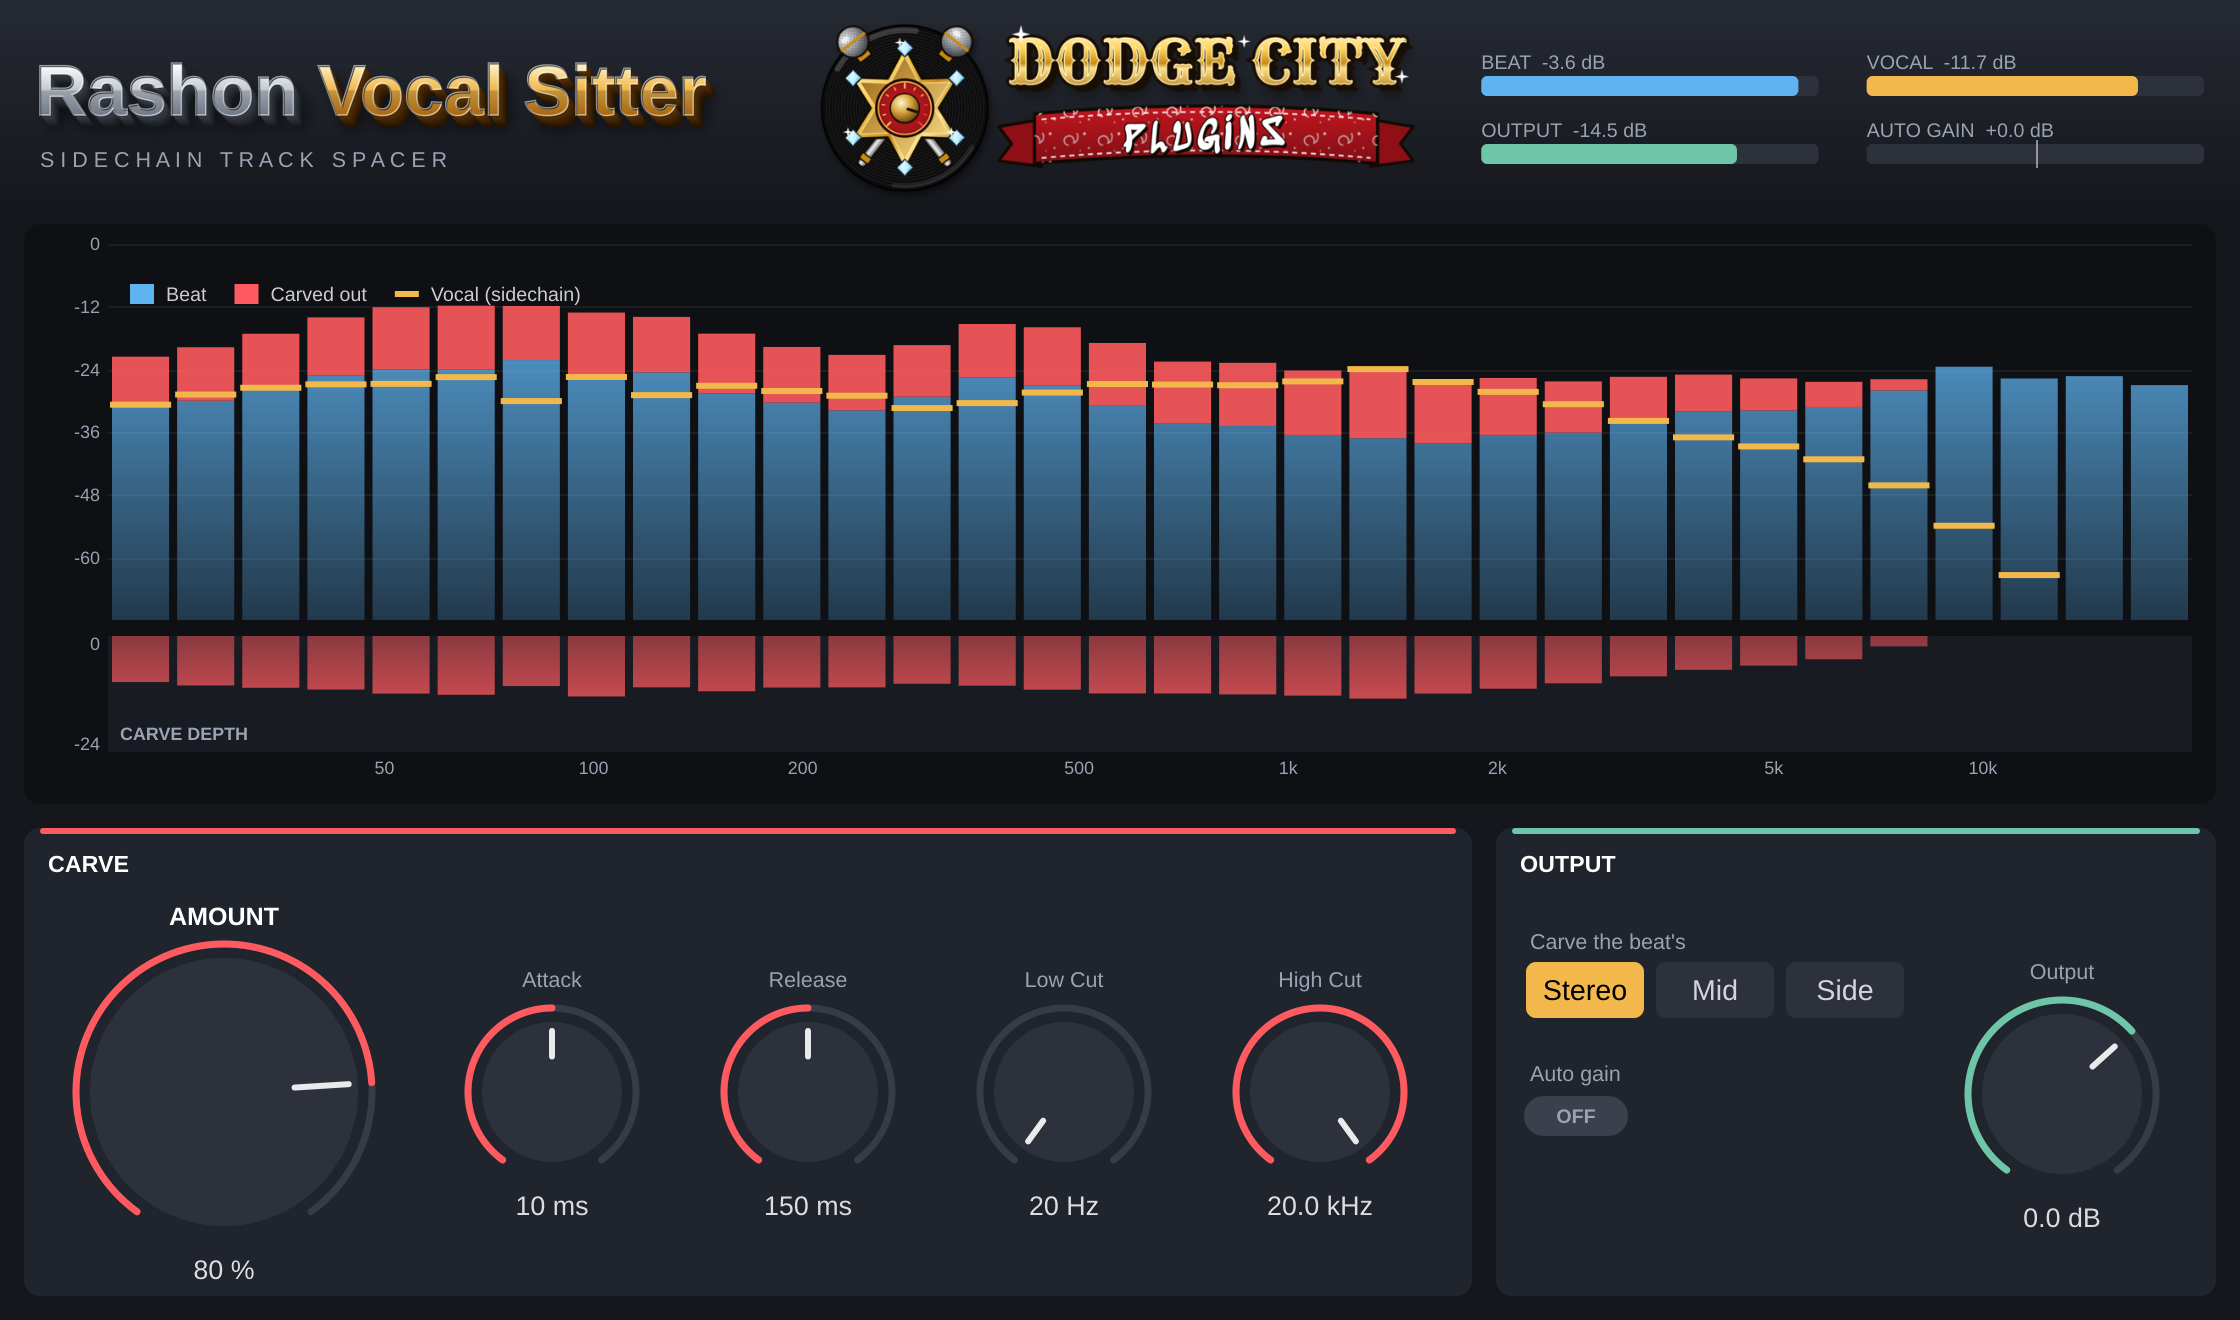
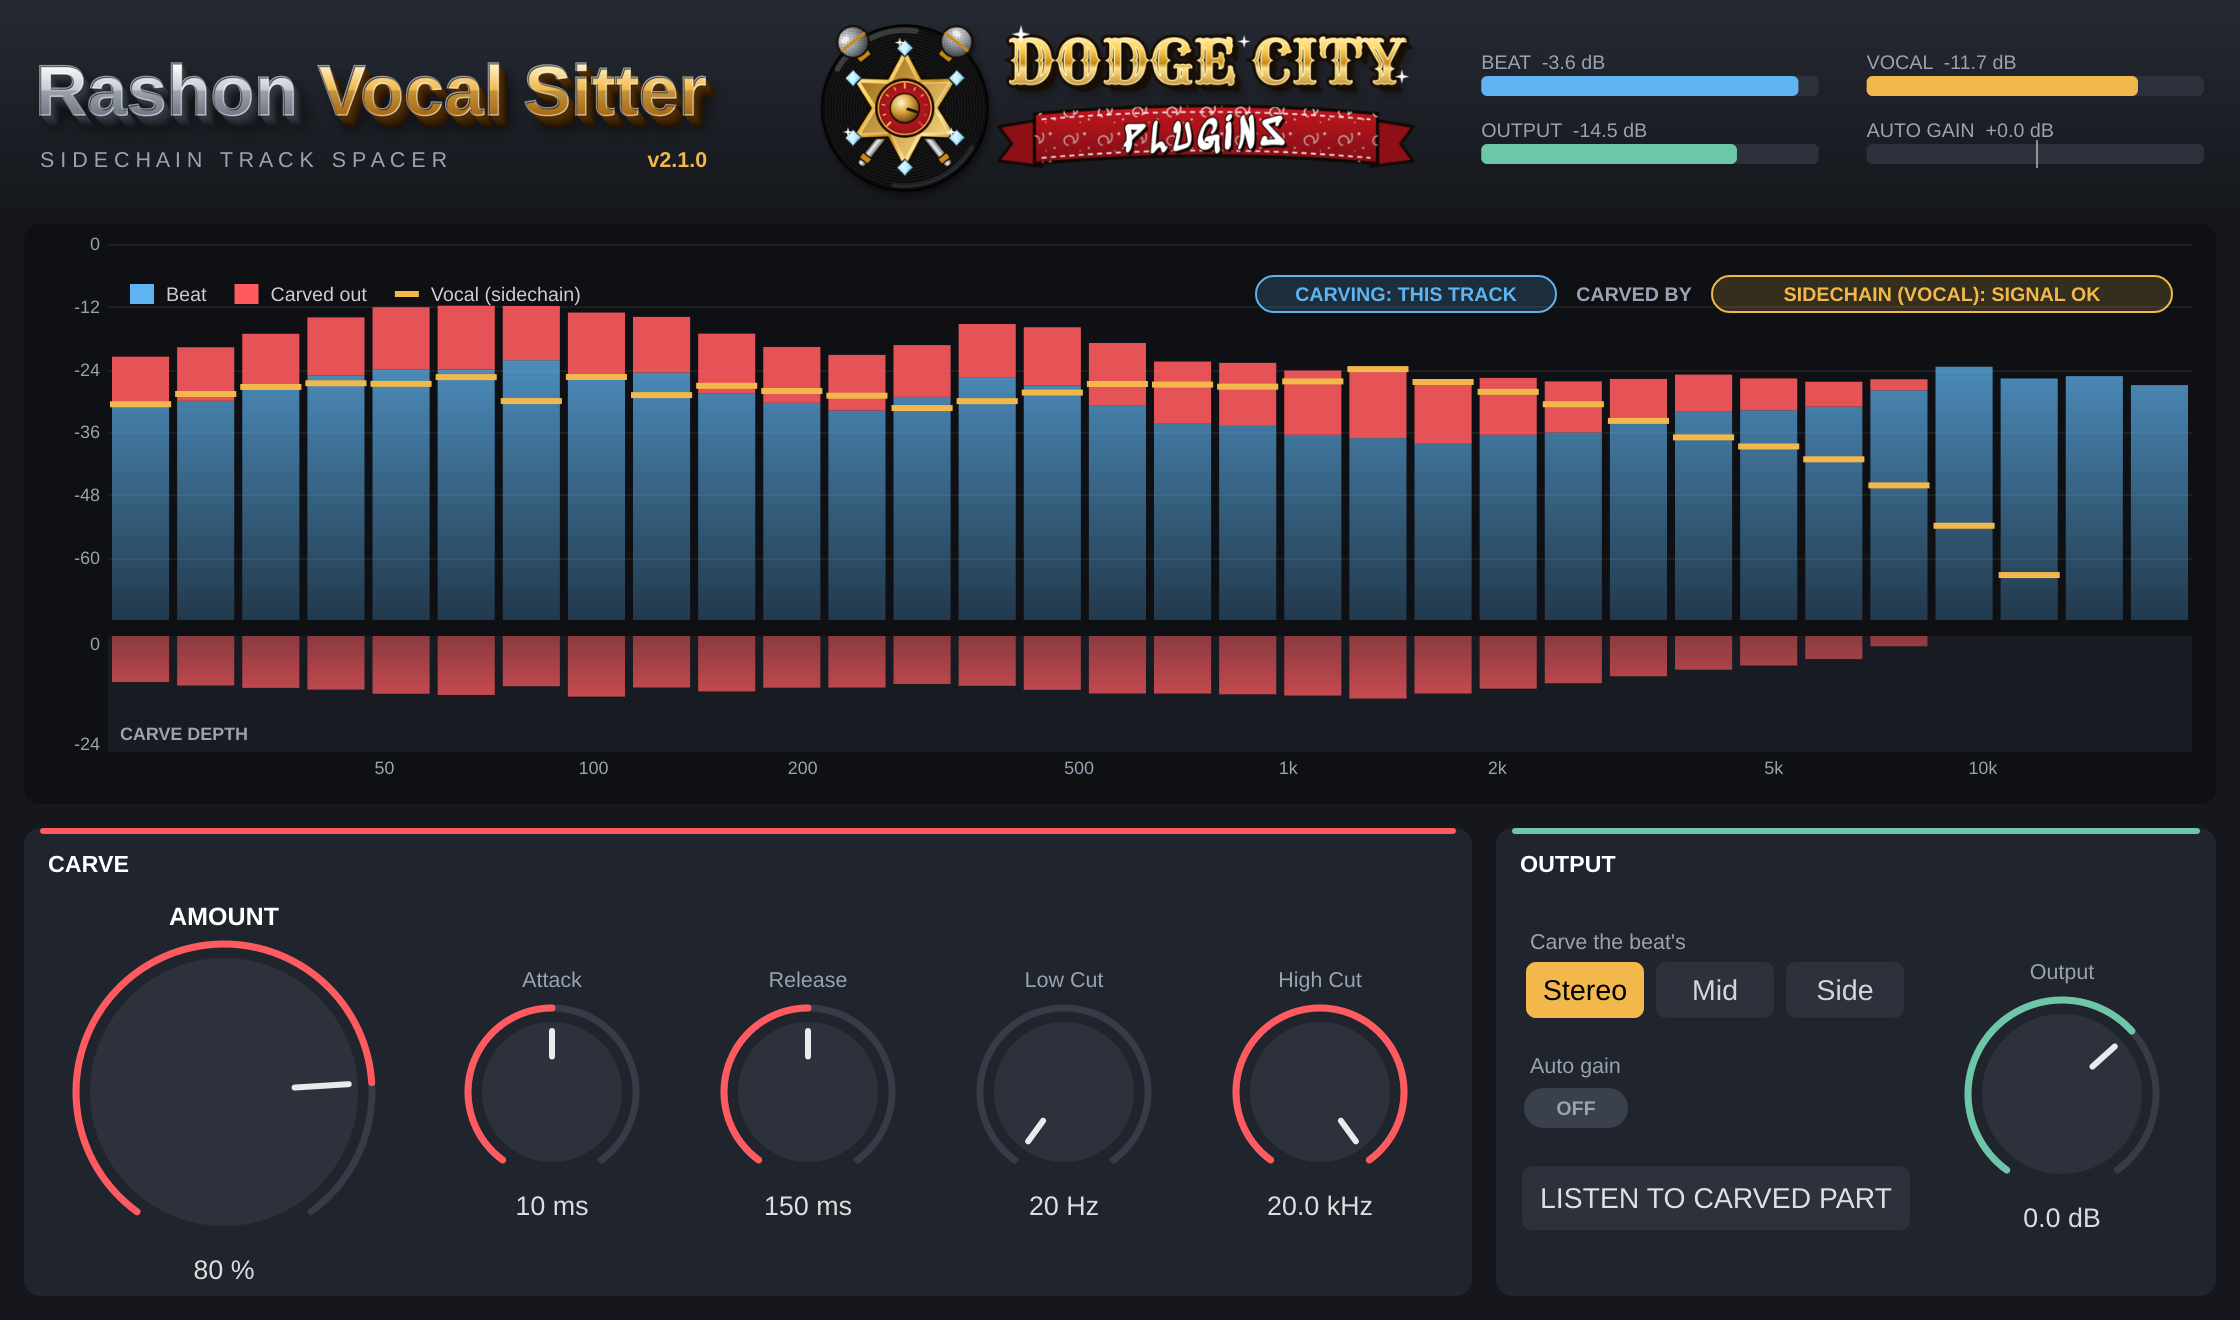
v2.1.0: routing label, Listen to carved part, version number
Shows which track is carved and the sidechain status on the display,
adds a button that plays only what is being removed, and shows the
version in the window and in the download's name.

Claude-Session: https://claude.ai/code/session_011kPxtysHsQ9HbSUMELU1Sm

Changed region(s): [[0.5625, 0.1864, 0.9688, 0.2485], [0.6875, 0.9008, 0.8438, 0.9318], [0.6875, 0.8076, 0.7188, 0.8697]]

diff --git a/Source/PluginEditor.cpp b/Source/PluginEditor.cpp
@@ -66,7 +66,8 @@ void KnobLookAndFeel::drawButtonBackground (juce::Graphics& g, juce::Button& b, 
 {
     auto r = b.getLocalBounds().toFloat().reduced (1.0f);
     const bool on = b.getToggleState();
-    g.setColour (on ? vocalGold : juce::Colour (0xff2c313b));
+    const bool isListen = b.getButtonText().startsWith ("LISTEN");
+    g.setColour (on ? (isListen ? carveRed : vocalGold) : juce::Colour (0xff2c313b));
     g.fillRoundedRectangle (r, 5.0f);
     if (highlighted)
     {
@@ -96,6 +97,8 @@ void CarveView::update()
         loudestVocal = juce::jmax (loudestVocal, d.vocalDb[b].load());
     }
     hasVocal = loudestVocal > -90.0f;
+    listening = processor.apvts.getRawParameterValue ("listen")->load() > 0.5f;
+    connected = processor.sidechainConnected.load();
     repaint();
 }
 
@@ -215,6 +218,39 @@ void CarveView::paint (juce::Graphics& g)
     item (carveRed, "Carved out", false);
     item (vocalGold, "Vocal (sidechain)", true);
 
+    // Routing label: which signal is carved and which one does the carving
+    {
+        auto row = juce::Rectangle<float> (bars.getRight() - 470.0f, bars.getY() + 16.0f, 460.0f, 18.0f);
+        auto pill = [&] (juce::Rectangle<float> r, const juce::String& text, juce::Colour c)
+        {
+            g.setColour (c.withAlpha (0.18f));
+            g.fillRoundedRectangle (r, 9.0f);
+            g.setColour (c);
+            g.drawRoundedRectangle (r, 9.0f, 1.0f);
+            g.setFont (juce::FontOptions (11.0f, juce::Font::bold));
+            g.drawText (text, r, juce::Justification::centred);
+        };
+        const juce::String keyText = ! connected ? "SIDECHAIN: NOT CONNECTED"
+                                   : hasVocal   ? "SIDECHAIN (VOCAL): SIGNAL OK"
+                                                : "SIDECHAIN (VOCAL): NO SIGNAL";
+        const auto keyColour = connected && hasVocal ? vocalGold : carveRed;
+        pill (row.removeFromRight (230.0f), keyText, keyColour);
+        g.setColour (textDim);
+        g.setFont (juce::FontOptions (11.0f, juce::Font::bold));
+        g.drawText ("CARVED BY", row.removeFromRight (78.0f), juce::Justification::centred);
+        pill (row.removeFromRight (150.0f), "CARVING: THIS TRACK", beatBlue);
+    }
+
+    if (listening)
+    {
+        auto banner = juce::Rectangle<float> (300.0f, 26.0f).withCentre ({ bars.getCentreX(), bars.getY() + 56.0f });
+        g.setColour (carveRed);
+        g.fillRoundedRectangle (banner, 6.0f);
+        g.setColour (juce::Colours::white);
+        g.setFont (juce::FontOptions (13.0f, juce::Font::bold));
+        g.drawText ("LISTENING TO THE CARVED PART ONLY", banner, juce::Justification::centred);
+    }
+
     if (! hasVocal)
     {
         g.setColour (juce::Colours::white.withAlpha (0.75f));
@@ -264,6 +300,13 @@ VocalSitterEditor::VocalSitterEditor (VocalSitterProcessor& p)
     autoGainButton.setColour (juce::ToggleButton::tickColourId, mixGreen);
     addAndMakeVisible (autoGainButton);
     autoGainAttachment = std::make_unique<juce::AudioProcessorValueTreeState::ButtonAttachment> (processor.apvts, "autoGain", autoGainButton);
+
+    listenButton.setClickingTogglesState (true);
+    listenButton.setColour (juce::TextButton::textColourOffId, juce::Colours::white.withAlpha (0.85f));
+    listenButton.setColour (juce::TextButton::textColourOnId, juce::Colours::black);
+    listenButton.setTooltip ("Hear only what is being carved out of this track");
+    addAndMakeVisible (listenButton);
+    listenAttachment = std::make_unique<juce::AudioProcessorValueTreeState::ButtonAttachment> (processor.apvts, "listen", listenButton);
 
     setSize (editorWidth, editorHeight);
     timerCallback();
@@ -364,6 +407,13 @@ void VocalSitterEditor::paint (juce::Graphics& g)
     const float titleWidth = firstWidth + juce::GlyphArrangement::getStringWidth (titleFont, second);
     g.setColour (textDim);
     g.setFont (juce::FontOptions (12.0f));
+    // Version number, so you can tell which build is installed
+    g.setColour (vocalGold);
+    g.setFont (juce::FontOptions (12.0f, juce::Font::bold));
+    g.drawText ("v" JucePlugin_VersionString, juce::Rectangle<float> (header.getX() + titleWidth - 60.0f, baseline + 14.0f, 60.0f, 16.0f),
+                juce::Justification::centredRight);
+    g.setColour (textDim);
+    g.setFont (juce::FontOptions (12.0f));
     g.drawText ("S I D E C H A I N   T R A C K   S P A C E R", juce::Rectangle<float> (header.getX() + 2.0f, baseline + 14.0f, titleWidth + 40.0f, 16.0f),
                 juce::Justification::centredLeft);
     header.removeFromLeft (titleWidth + 14.0f);
@@ -442,8 +492,10 @@ void VocalSitterEditor::resized()
         const int bw = row.getWidth() / 3;
         for (auto* b : stereoButtons)
             b->setBounds (row.removeFromLeft (bw).reduced (2, 0));
-        r.removeFromTop (18);
+        r.removeFromTop (14);
         autoGainLabel.setBounds (r.removeFromTop (18));
         autoGainButton.setBounds (r.removeFromTop (24).withWidth (56));
+        r.removeFromTop (16);
+        listenButton.setBounds (r.removeFromTop (34));
     }
 }

diff --git a/Source/PluginProcessor.cpp b/Source/PluginProcessor.cpp
@@ -31,6 +31,7 @@ juce::AudioProcessorValueTreeState::ParameterLayout VocalSitterProcessor::create
     addFloat ("highCut", "High Cut", skewed (1000.0f, 20000.0f, 6000.0f), 20000.0f, hz);
     p.push_back (std::make_unique<AudioParameterChoice> (ParameterID { "stereo", 2 }, "Stereo", StringArray { "Stereo", "Mid", "Side" }, 0));
     p.push_back (std::make_unique<AudioParameterBool> (ParameterID { "autoGain", 2 }, "Auto Gain", false));
+    p.push_back (std::make_unique<AudioParameterBool> (ParameterID { "listen", 2 }, "Listen To Carved Part", false));
     addFloat ("outGain", "Output", { -24.0f, 12.0f, 0.1f }, 0.0f, db);
 
     return { p.begin(), p.end() };
@@ -66,6 +67,7 @@ void VocalSitterProcessor::prepareToPlay (double sampleRate, int samplesPerBlock
     carver.prepare (sampleRate);
     setLatencySamples (0);
     vocalKey.assign ((size_t) samplesPerBlock, 0.0f);
+    dryBuffer.setSize (2, samplesPerBlock);
     outGain.reset (sampleRate, 0.05);
     outGain.setCurrentAndTargetValue (juce::Decibels::decibelsToGain (param ("outGain")));
     autoGain.reset (sampleRate, 0.2);
@@ -103,6 +105,8 @@ void VocalSitterProcessor::processBlock (juce::AudioBuffer<float>& buffer, juce:
         return;
     if ((int) vocalKey.size() < n)
         vocalKey.resize ((size_t) n);
+    if (dryBuffer.getNumSamples() < n || dryBuffer.getNumChannels() < channels)
+        dryBuffer.setSize (juce::jmax (2, channels), n, false, false, true);
 
     // 1. Vocal sidechain, mixed to mono
     std::fill (vocalKey.begin(), vocalKey.begin() + n, 0.0f);
@@ -117,27 +121,45 @@ void VocalSitterProcessor::processBlock (juce::AudioBuffer<float>& buffer, juce:
             for (int i = 0; i < n; ++i)
                 vocalKey[(size_t) i] += d[i] / (float) sc;
         }
+        sidechainConnected = sc > 0;
         if (sc > 0)
             vocalPeak = peakDb (side, sc, n);
         else
             vocalPeak = -100.0f;
     }
     else
+    {
         vocalPeak = -100.0f;
+        sidechainConnected = false;
+    }
     vocalLevelDb = vocalPeak;
     beatLevelDb = peakDb (beat, channels, n);
     const double refSum = meanSquare (beat, channels, n);
 
-    // 2. Carve the beat
+    // 2. Carve the beat (keep a copy of the original for Listen to carved part)
+    for (int ch = 0; ch < channels; ++ch)
+        dryBuffer.copyFrom (ch, 0, beat, ch, 0, n);
     carver.setParams (param ("amount") * 0.01f, param ("attack"), param ("release"), param ("lowCut"), param ("highCut"),
                       (BandCarver::Stereo) juce::roundToInt (param ("stereo")));
     carver.process (beat, channels, vocalKey.data(), n);
 
-    // 3. Auto gain: slowly bring the carved beat back to its original loudness
+    // Listen to carved part: output only what was removed (original minus carved)
+    const bool listen = param ("listen") > 0.5f;
+    if (listen)
+        for (int ch = 0; ch < channels; ++ch)
+        {
+            auto* out = beat.getWritePointer (ch);
+            const auto* dry = dryBuffer.getReadPointer (ch);
+            for (int i = 0; i < n; ++i)
+                out[i] = dry[i] - out[i];
+        }
+
+    // 3. Auto gain: slowly bring the carved beat back to its original loudness (off while listening)
     const float alpha = std::exp (-(float) n / (0.4f * (float) sr));
     refPower = alpha * refPower + (1.0f - alpha) * (float) refSum;
-    outPower = alpha * outPower + (1.0f - alpha) * (float) meanSquare (beat, channels, n);
-    if (param ("autoGain") < 0.5f)
+    if (! listen)
+        outPower = alpha * outPower + (1.0f - alpha) * (float) meanSquare (beat, channels, n);
+    if (param ("autoGain") < 0.5f || listen)
         autoGain.setTargetValue (1.0f);
     else if (refPower > 1.0e-7f && outPower > 1.0e-10f)
         autoGain.setTargetValue (juce::jlimit (0.25f, 4.0f, std::sqrt (refPower / outPower)));

diff --git a/Tests/SmokeTest.cpp b/Tests/SmokeTest.cpp
@@ -128,7 +128,17 @@ int main()
         check (std::abs (db (r7.outRms / r7.inRms)) < 1.0f, "auto gain matches input level (dB)", db (r7.outRms / r7.inRms));
         set (p, "autoGain", 0.0f);
 
-        // 7. No sidechain connected
+        // 7. Listen to carved part: silent vocal = silence; carved part + carved beat = original
+        set (p, "listen", 1.0f);
+        auto r9 = run (p, rate, 2.0f, beat, beat, silence); // 2 s: let the release from the last test finish
+        check (r9.outRms < 1.0e-5f, "listen mode is silent when nothing is carved (RMS)", r9.outRms);
+        auto r10 = run (p, rate, 1.0f, beatOnly1k, beatOnly1k, tone1k);
+        set (p, "listen", 0.0f);
+        auto r11 = run (p, rate, 1.0f, beatOnly1k, beatOnly1k, tone1k);
+        check (db (r10.outRms / r10.inRms) > -3.0f, "listen mode plays what was carved (dB vs input)", db (r10.outRms / r10.inRms));
+        check (db (r11.outRms / r11.inRms) < -12.0f, "normal mode plays the carved beat (dB)", db (r11.outRms / r11.inRms));
+
+        // 8. No sidechain connected
         auto layout = p.getBusesLayout();
         layout.inputBuses.getReference (1) = juce::AudioChannelSet::disabled();
         p.setBusesLayout (layout);

diff --git a/Source/PluginEditor.h b/Source/PluginEditor.h
@@ -24,7 +24,7 @@ private:
     VocalSitterProcessor& processor;
     static constexpr int numBands = CarveDisplayData::numBands;
     std::array<float, numBands> beat {}, vocal {}, cut {};
-    bool hasVocal = false;
+    bool hasVocal = false, listening = false, connected = false;
 };
 
 class VocalSitterEditor : public juce::AudioProcessorEditor, private juce::Timer
@@ -60,6 +60,8 @@ private:
     juce::Label stereoLabel, autoGainLabel;
     juce::ToggleButton autoGainButton;
     std::unique_ptr<juce::AudioProcessorValueTreeState::ButtonAttachment> autoGainAttachment;
+    juce::TextButton listenButton { "LISTEN TO CARVED PART" };
+    std::unique_ptr<juce::AudioProcessorValueTreeState::ButtonAttachment> listenAttachment;
 
     juce::Rectangle<int> carvePanel, outputPanel, meterArea;
     float beatDb = -100.0f, vocalDb = -100.0f, outDb = -100.0f, autoDb = 0.0f;

diff --git a/Source/PluginProcessor.h b/Source/PluginProcessor.h
@@ -43,6 +43,7 @@ public:
 
     // Values read by the editor's meters
     std::atomic<float> beatLevelDb { -100.0f }, vocalLevelDb { -100.0f }, outputLevelDb { -100.0f }, autoGainDb { 0.0f };
+    std::atomic<bool> sidechainConnected { false };
 
 private:
     float param (const juce::String& id) const { return apvts.getRawParameterValue (id)->load(); }
@@ -50,6 +51,7 @@ private:
     double sr = 44100.0;
     BandCarver carver;
     std::vector<float> vocalKey;
+    juce::AudioBuffer<float> dryBuffer; // the beat before carving, for Listen to carved part
     juce::SmoothedValue<float> outGain, autoGain;
     float refPower = 0.0f, outPower = 0.0f;
 
